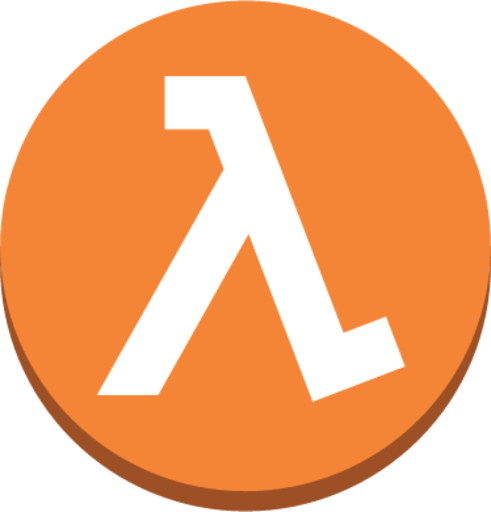
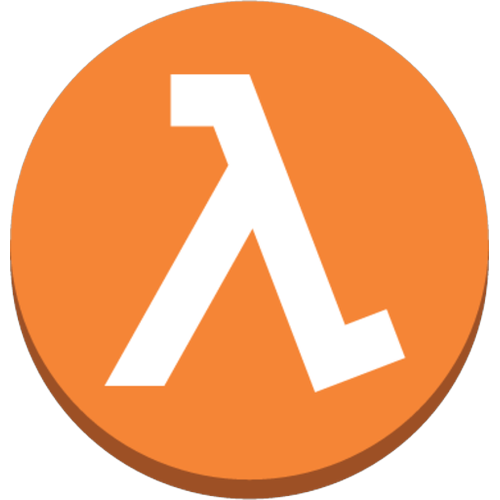
Refactor translation keys and add new translations for observability and vulnerabilities, rezized images

diff --git a/src/components/observability/cloud/cloudScanDetail.tsx b/src/components/observability/cloud/cloudScanDetail.tsx
@@ -1,10 +1,6 @@
-// eslint-disable-next-line @typescript-eslint/ban-ts-comment
-// @ts-ignore
 import React from 'react';
 import { Box, CardContent, Chip, Stack, Typography, Paper } from '@mui/material';
 import { useTheme } from '@mui/material/styles';
-import SavingsImg from '../../../assets/images/backgrounds/piggy.png';
-
 import ec2Img from '../../../assets/images/backgrounds/ec2.png';
 import iamImg from '../../../assets/images/backgrounds/iam.png';
 import lambdaImg from '../../../assets/images/backgrounds/lambda.png';
@@ -49,15 +45,24 @@ const CloudScansDetailObs = () => {
   const theme = useTheme();
   const secondarylight = theme.palette.secondary.light;
   const primarylight = theme.palette.primary.light;
-  const secondary = theme.palette.secondary.main;
-  const primary = theme.palette.primary.main;
   const borderColor = theme.palette.divider;
 
   return (
     <Box display="flex" flexWrap="wrap" gap={2} justifyContent="start">
       {servicesData.map((service, i) => (
-        <Paper sx={{ bgcolor: 'primary.main', border: `1px solid ${borderColor}` }} variant="outlined">
-          <CardContent >
+        <Paper
+          key={service.service}
+          sx={{
+            bgcolor: 'primary.main',
+            border: `1px solid ${borderColor}`,
+            minHeight: '150px',
+            width: '250px',
+            display: 'flex',
+            flexDirection: 'column',
+          }}
+          variant="outlined"
+        >
+          <CardContent sx={{ display: 'flex', flexDirection: 'column', alignItems: 'center' }}>
             <Typography variant="h5" color="white" gutterBottom>
               {service.service.toUpperCase()}
             </Typography>
@@ -65,7 +70,7 @@ const CloudScansDetailObs = () => {
               Total: {service.total}
             </Typography>
 
-            <Box textAlign="center" mt={2} mb="-90px">
+            <Box textAlign="center" mt={2} mb="-30px">
               <img
                 src={
                   service.service === 'ec2'
@@ -76,39 +81,44 @@ const CloudScansDetailObs = () => {
                 }
                 alt={service.service}
                 width="120"
-                style={{ margin: '40px' }}
+                style={{ margin: '0px' }}
               />
             </Box>
-            <Paper sx={{ overflow: 'hidden', zIndex: '1', position: 'relative', margin: '10px', height: '50%' }}>
-              <Box p={3}>
-                <Stack spacing={3}>
-                  {Object.entries(service.resource_type_totals).map(([type, count], index) => (
-                     <Stack
-                     direction="row"
-                     spacing={2}
-                     mb={1}
-                     justifyContent="space-between"
-                     alignItems="center"
-                   >
-
-                      <Typography variant="body2" color="textSecondary">
-                        {type}
-                      </Typography>
-                      <Chip
-                        label={count}
-                        size="small"
-                        sx={{
-                          bgcolor: i % 2 === 0 ? primarylight : secondarylight
-                        }}
-                      />
-                    </Stack>
-                  ))}
-                </Stack>
-              </Box>
-
-            </Paper>
-
           </CardContent>
+
+          <Paper
+            sx={{
+              overflow: 'hidden',
+              position: 'relative',
+              margin: '10px',
+              bgcolor: 'background.paper',
+              p: 2,
+              flex: 1, // Allow this section to take up remaining space
+            }}
+          >
+            <Stack spacing={2}>
+              {Object.entries(service.resource_type_totals).map(([type, count], index) => (
+                <Stack
+                  key={type}
+                  direction="row"
+                  spacing={2}
+                  justifyContent="space-between"
+                  alignItems="center"
+                >
+                  <Typography variant="body2" color="textSecondary">
+                    {type}
+                  </Typography>
+                  <Chip
+                    label={count}
+                    size="small"
+                    sx={{
+                      bgcolor: i % 2 === 0 ? primarylight : secondarylight,
+                    }}
+                  />
+                </Stack>
+              ))}
+            </Stack>
+          </Paper>
         </Paper>
       ))}
     </Box>

diff --git a/src/layouts/full/vertical/sidebar/MenuItems.ts b/src/layouts/full/vertical/sidebar/MenuItems.ts
@@ -145,6 +145,38 @@ const Menuitems: MenuitemsType[] = [
   },
   {
     id: uniqueId(),
+    title: 'menu.dark_web_monitoring', // Translation key for title
+    href: '/monitoring/threats-overview',
+    icon: IconSpy,
+  },
+  
+  {
+    title: 'menu.cyber_guard', // Translation key for title
+    href: '/monitoring/cyber-guard',
+    icon: IconShieldBolt,
+    children: [
+      {
+        id: uniqueId(),
+        title: 'menu.parameters', // Translation key for title
+        href: '/monitoring/cyber-guard/parameters',
+        icon: IconPoint,
+      },
+      {
+        id: uniqueId(),
+        title: 'menu.brand_monitoring', // Translation key for title
+        href: '/monitoring/cyber-guard/brand-monitoring',
+        icon: IconPoint,
+      },
+      {
+        id: uniqueId(),
+        title: 'menu.malware', // Translation key for title
+        href: '/monitoring/malware-analysis',
+        icon: IconPoint,
+      },
+    ],
+  },
+  {
+    id: uniqueId(),
     title: 'menu.soc', // Translation key for title
     icon: IconBasket,
     children: [
@@ -243,44 +275,6 @@ const Menuitems: MenuitemsType[] = [
     title: 'menu.siem', // Translation key for title
     href: '/monitoring/siem',
     icon: IconMessage2,
-  },
-  {
-    id: uniqueId(),
-    title: 'menu.dark_web_monitoring', // Translation key for title
-    href: '/monitoring/threats-overview',
-    icon: IconSpy,
-  },
-  {
-    title: 'menu.cyber_guard', // Translation key for title
-    href: '/monitoring/cyber-guard',
-    icon: IconShieldBolt,
-    children: [
-      {
-        id: uniqueId(),
-        title: 'menu.parameters', // Translation key for title
-        href: '/monitoring/cyber-guard/parameters',
-        icon: IconPoint,
-      },
-      {
-        id: uniqueId(),
-        title: 'menu.brand_monitoring', // Translation key for title
-        href: '/monitoring/cyber-guard/brand-monitoring',
-        icon: IconPoint,
-      },
-      {
-        id: uniqueId(),
-        title: 'menu.malware', // Translation key for title
-        href: '/monitoring/malware-analysis',
-        icon: IconPoint,
-      },
-      {
-        id: uniqueId(),
-        title: 'menu.dark_web_monitoring', // Translation key for title
-        href: '/monitoring/threats-overview',
-        icon: IconSpy,
-      }
-    ],
-   
   },
   {
     navlabel: true,

diff --git a/src/views/observability/ObservedAssets.tsx b/src/views/observability/ObservedAssets.tsx
@@ -8,12 +8,14 @@ import { DatePicker } from '@mui/x-date-pickers/DatePicker';
 import { LocalizationProvider } from '@mui/x-date-pickers';
 import { AdapterDateFns } from '@mui/x-date-pickers/AdapterDateFns';
 import CustomTextField from 'src/components/forms/theme-elements/CustomTextField';
+import { useTranslation } from 'react-i18next';
 
 const ObservedAssets = () => {
   // Get params from the URL
   const { id: id } = useParams<{ id?: string }>();
   const navigate = useNavigate();
   const location = useLocation();  // Tracks the current URL location
+  const {t} = useTranslation();
 
   // State to manage the selected asset
   const [selectedAsset, setSelectedAsset] = useState<string | null>(null);
@@ -48,19 +50,20 @@ const ObservedAssets = () => {
         </IconButton>
         <Breadcrumbs aria-label="breadcrumb">
           <Link component={RouterLink} color="inherit" to="/observability/observed-assets">
-            Observabilidad
+          {t('menu.observability')}
           </Link>
           <Link component={RouterLink} color="inherit" to="/observability/observed-assets">
-            Assets
+          {t('menu.assets')}
           </Link>
           {selectedAsset && (
             <Link component={RouterLink} color="inherit" to={`/observability/observed-assets/assets/${selectedAsset}`}>
-              Escaneos observabilidad Red
+              {t('observability.assets_obs_scans')} 
             </Link>
           )}
         </Breadcrumbs>
         <Box flexGrow={1} />
-        <Box display="flex" alignItems="center" mt={2}>
+        {
+          selectedAsset && <Box display="flex" alignItems="center" mt={2}>
           <LocalizationProvider dateAdapter={AdapterDateFns}>
             <DatePicker
               renderInput={(props) => (
@@ -111,6 +114,7 @@ const ObservedAssets = () => {
             />
           </LocalizationProvider>
         </Box>
+        }
       </Box>
 
       {selectedAsset ? (

diff --git a/src/views/observability/Cloud.tsx b/src/views/observability/Cloud.tsx
@@ -6,6 +6,7 @@ import NetworkScanListTable from 'src/components/observability/network/networkSc
 import NetworkScanDetail from 'src/components/observability/network/networkScanDetail';
 import CloudScansTable from 'src/components/observability/cloud/cloudScans';
 import CloudScansDetailObs from 'src/components/observability/cloud/cloudScanDetail';
+import { useTranslation } from 'react-i18next';
 
 const CloudObservability = () => {
   // Get params from the URL
@@ -14,6 +15,8 @@ const CloudObservability = () => {
   const location = useLocation();  // Tracks the current URL location
   
   const [selectedScan, setSelectedScan] = useState<string | null>(null);
+
+  const {t} = useTranslation();
 
   // Synchronize state with URL parameters
   useEffect(() => {
@@ -37,14 +40,14 @@ const CloudObservability = () => {
         </IconButton>
         <Breadcrumbs aria-label="breadcrumb">
           <Link component={RouterLink} color="inherit" to="/observability/cloud">
-            Observabilidad
+          {t('menu.observability')}
           </Link>
           <Link component={RouterLink} color="inherit" to="/observability/cloud">
-            Red
+          {t('menu.cloud')}
           </Link>
           {selectedScan && (
             <Link component={RouterLink} color="inherit" to={`/observability/cloud/scans/${selectedScan}`}>
-              Escaneos observabilidad Red
+              {t('observability.cloud_obs_scans')} 
             </Link>
           )}
         </Breadcrumbs>

diff --git a/src/components/vulnerabilities/cloud/cloudScanDetailView.tsx b/src/components/vulnerabilities/cloud/cloudScanDetailView.tsx
@@ -187,7 +187,7 @@ const CloudScanDetailView = () => {
     
             {/* Service Summary */}
             <Grid item xs={12} xl={12}>
-                <DashboardCard title={t("vulnerabilities.service_summary")}>
+                <DashboardCard title={t("vulnerabilities.service_summary")!}>
                     <TableContainer>
                         <Table aria-label="service table">
                             <TableHead>
@@ -235,7 +235,8 @@ const CloudScanDetailView = () => {
     
             {/* Reports Table */}
             <Grid item xs={12} xl={12}>
-                <DashboardCard title={t("vulnerabilities.report")}>
+                <DashboardCard title={t("vulnerabilities.report")!}>
+                    <>
                     <Box mb={3} my={3}>
                         <TextField
                             placeholder={t("vulnerabilities.search_reports")}
@@ -292,6 +293,7 @@ const CloudScanDetailView = () => {
                             </TableBody>
                         </Table>
                     </TableContainer>
+                    </>
                 </DashboardCard>
             </Grid>
         </Grid>

diff --git a/src/components/observability/dark-web/topCardsDarkWeb.tsx b/src/components/observability/dark-web/topCardsDarkWeb.tsx
@@ -22,9 +22,7 @@ const secondRowData = [
 
 // Function to return color based on value
 const getColorByValue = (value: number) => {
-  if (value <= 1) return 'success';
-  if (value <= 5) return 'info';
-  if (value <= 9) return 'warning';
+  if (value < 1) return 'success';
   return 'error';
 };
 
